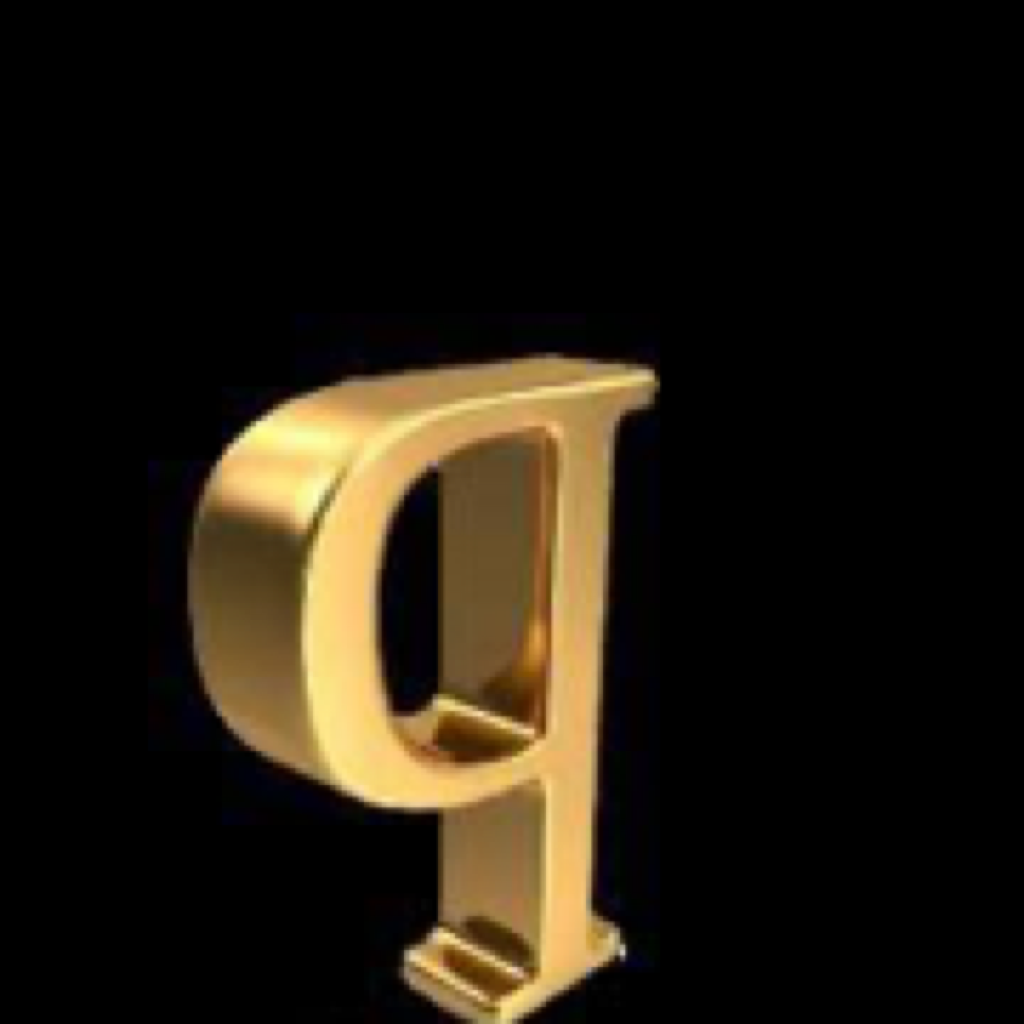
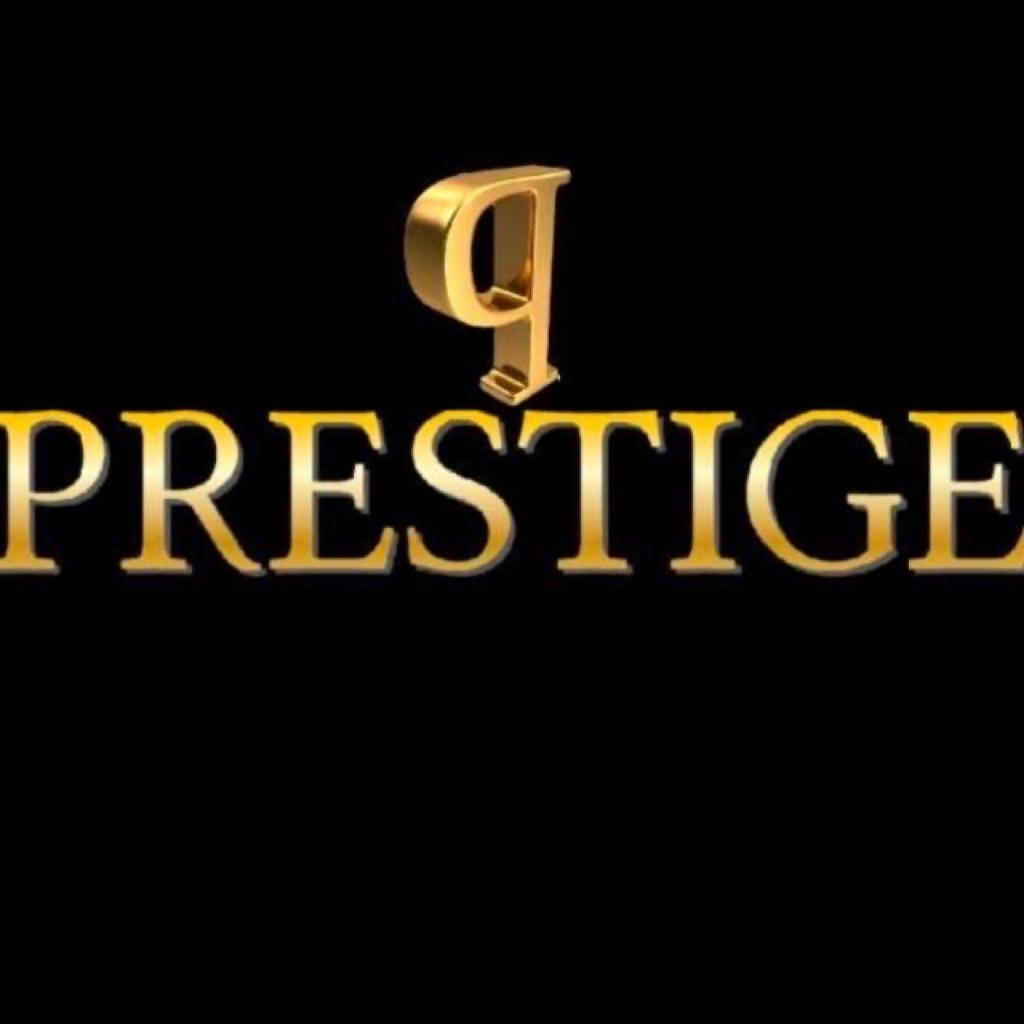
Align Prestige SG Driver release identity

Changed region(s): [[0.0, 0.1562, 1.0, 1.0]]

diff --git a/docs/current-implementation-ledger.md b/docs/current-implementation-ledger.md
@@ -10133,7 +10133,7 @@ This file is the repo source of truth for Codex and future work. Inspect this fi
 
 ### Driver Companion iPad Support
 
-- The owner-approved installed and App Store-facing name is `Prestige SG`. The existing in-app `Driver Companion` heading remains so the operational role is explicit. This is a brand-name alignment of the same Driver Companion bundle and must not be interpreted as adding Customer or Admin functions to the native app; Customer remains on the established web/PWA surface and Admin remains on its separate private web/PWA surface.
+- The owner-approved App Store-facing Driver name is `Prestige SG Driver`, while the shorter installed iPhone/iPad Home-screen label is `Prestige Driver` so it remains readable under the icon. The existing in-app `Driver Companion` heading remains so the operational role is explicit. This is a brand-name alignment of the same Driver Companion bundle and must not be interpreted as adding Customer or Admin functions to the native app; Customer remains on the established web/PWA surface and Admin remains on its separate private web/PWA surface.
 - Owner approved extending the existing iOS Driver Companion from iPhone-only to iPhone and iPad. The established Expo configuration now declares `ios.supportsTablet: true`; the same bundle ID, App ID, Universal Link, private Driver Job URL parser, tracking actions, background-location task, light mode, and iOS app lane remain in place. No macOS target, second native role app, or second platform lane was added.
 - The existing single scroll view remains the only Companion screen. Its content now stays fluid at narrow widths and centers inside a bounded 720-point column on wider iPad or variable-width iOS windows, without adding a tablet-only component, route, state, writer, or job workflow. Device-neutral visible copy now covers both iPhone and iPad while preserving the same explicit Start/Stop permission contract.
 - Source/config validation does not prove physical iPad behavior, Universal Link launch, foreground/background location permission, screen-lock tracking, orientation handling, split-view resizing, App Store screenshots, signing, TestFlight installation, review, or publication. Those require an exact signed iPad-capable build and bounded physical iPad acceptance before submission.
@@ -10141,6 +10141,20 @@ This file is the repo source of truth for Codex and future work. Inspect this fi
 - Visible light-mode acceptance on the owner's Mac passed in both portrait and landscape. Safe-area spacing remained intact, the bounded content column stayed centered and readable, and no clipping, full-width card stretch, Customer/Admin data, or role crossover was visible. The test did not open a private Driver Job Link, request location permission, start tracking, create GPS/Production writes, contact a driver/customer, or prove physical-device/background behavior.
 - Android configuration and the physically verified Pixel behavior remain unchanged. Driver Job acknowledgement/reporting, live-location API/data, Driver Calendar, Operations Calendar, booking/CRM, Admin and Customer apps, messaging, invoice/billing/payment, payout/PayNow, provider, schema, environment, and every other wired lane remain untouched.
 - Focused lock: the existing `scripts/test-driver-companion-ios-release-config-guard.mjs`, registered in `scripts/test-preactivation-verification-suite.mjs`.
+
+### Driver App Store Name Alignment
+
+- Signed-in, read-only App Store Connect inspection on 12 August 2026 confirmed one existing iOS record: `Prestige SG Driver`, Apple ID `6800706103`, version `1.0`, status `Prepare for Submission`. The record is the same established Driver Companion bundle; no second Driver app record was created.
+- The inspection reproduced one exact release-preparation mismatch: the existing App Store record was `Prestige SG Driver` while `driver-companion/app.json` still declared the installed name `Prestige SG`. The focused release guard was first tightened to the exact App Store name and failed on that mismatch before the application configuration changed.
+- The established Driver Companion configuration now declares `Prestige SG Driver`. Bundle ID `sg.prestigelimo.drivercompanion`, Apple App ID, build number, public version, iPhone/iPad support, Universal Link, location permissions, tracking workflow, APIs, privacy exclusions, and every Driver Job consumer remain unchanged.
+- The owner found the full Store name too long beneath the Home-screen icon and approved `Prestige Driver` as the installed iPhone/iPad icon label. The established iOS configuration sets only `CFBundleDisplayName` to that shorter label; App Store Connect remains `Prestige SG Driver`, and the in-app role heading remains `Driver Companion`.
+- The first visible name-alignment simulator check exposed the pre-existing App Store icon as a different cropped mark from the owner's intended artwork, so the release pass stopped before commit. The owner then supplied the exact authoritative square black-and-gold Prestige artwork. It was converted mechanically from its 640-by-640 JPEG source to a 1024-by-1024 RGB PNG with no alpha, redraw, generated replacement, transparency, or pre-rounded corners.
[1 lines of base64/hex data omitted]
+- A fresh unsigned Release simulator build from the resolved Expo/iOS configuration emitted `CFBundleDisplayName` `Prestige Driver`, bundle ID `sg.prestigelimo.drivercompanion`, and device families `1` and `2`. Visible light-mode checks on an iPhone 17 and iPad Pro 11-inch simulator showed the same `Driver Companion` screen and the exact black-and-gold icon with the readable `Prestige Driver` Home-screen label. The iPad SpringBoard initially displayed a loading placeholder while its icons populated; the compiled iPad icon asset was inspected as the correct artwork, and the normal icon rendered on the next settled read without a rebuild or source change.
+- The future native Customer app name `Prestige SG` and future native Admin app name `Prestige SG Admin` are owner-parked. No Customer/Admin native project, App ID, App Store record, bundle, build, route, authentication lane, or role crossover is created by this Driver-only alignment.
+- This source alignment does not upload a build, create or change signing credentials, start TestFlight, submit App Review, publish the app, request unlisted distribution, or prove physical iPhone/iPad behavior. Those remain separate exact-action approval and acceptance steps.
+- Driver Job acknowledgement/reporting, live-location API/data, personal and Operations Calendar, booking/CRM, Customer and Admin web/PWA apps, messaging, invoice/billing/payment, payout/PayNow, provider, schema, environment, and every established layout remain untouched.
+- Focused lock: `scripts/test-driver-companion-ios-release-config-guard.mjs`, registered in `scripts/test-preactivation-verification-suite.mjs`.
 
 ## Customer Booking Public Reference Lane
 
